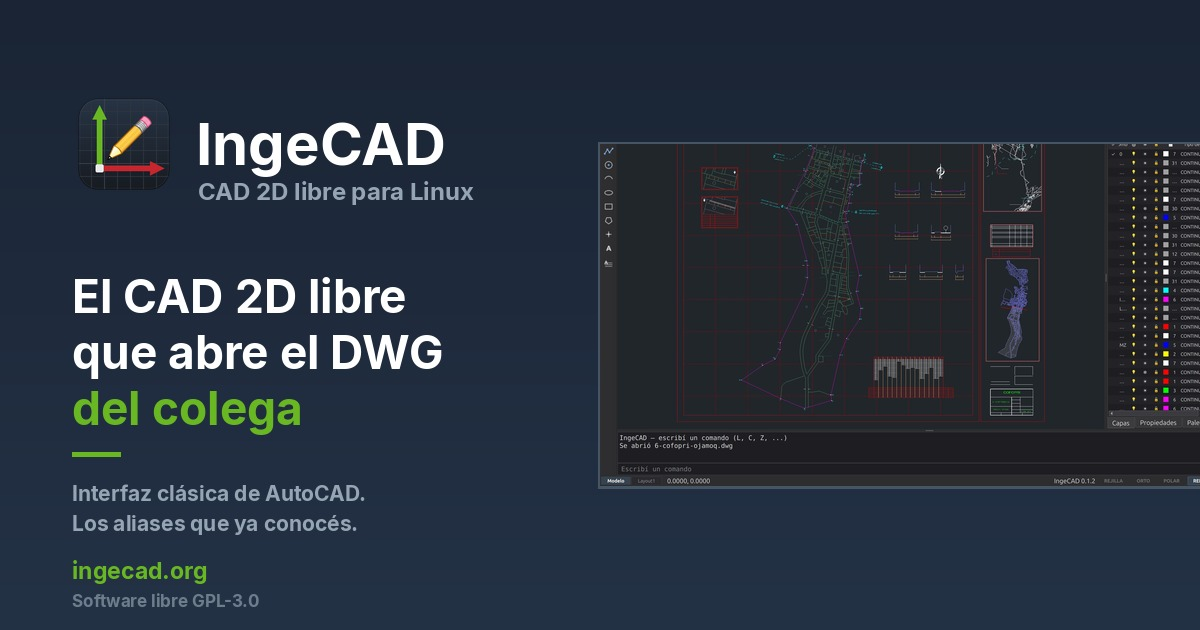
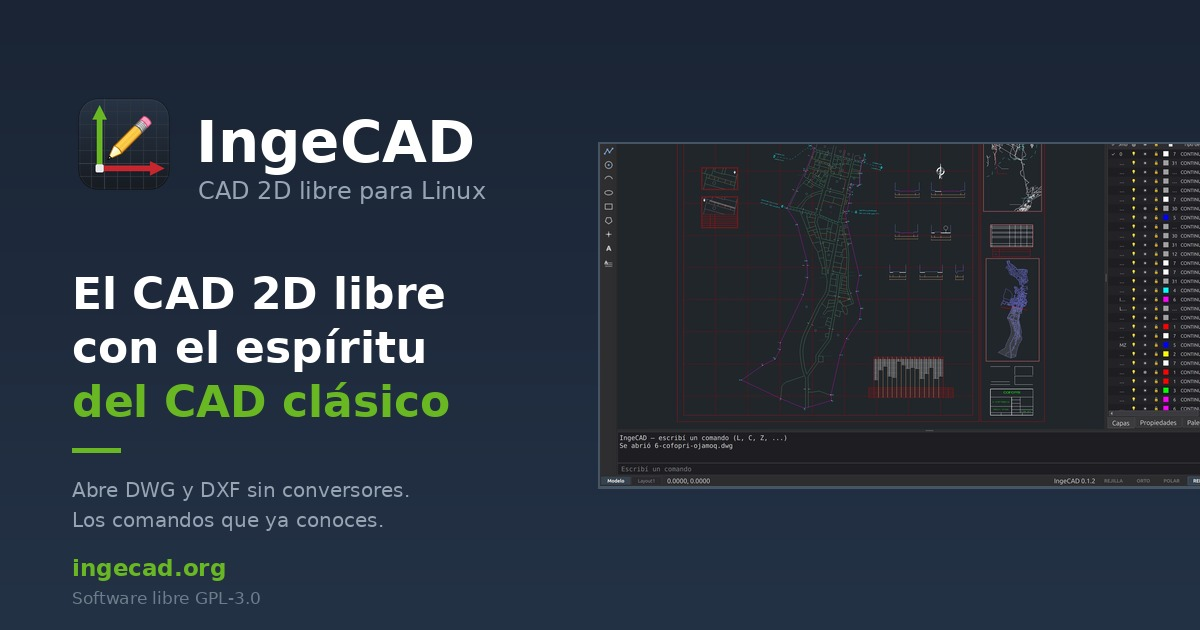
copy: español neutro y el titular desde el espíritu del CAD clásico
Correcciones de Marco, punto por punto:

- El titular pasa de «que abre el DWG del colega» a «con el espíritu del
  CAD clásico»: la propuesta de valor se cuenta desde el parecido con los
  programas que el usuario ya conoce, no desde la anécdota del archivo que
  le mandan. El valor del DWG baja al subtítulo, que ahora dice «Abre DWG y
  DXF sin conversores».
- «El plano llega por WhatsApp y lo abrís» → «Abre tus archivos sin
  conversores», con LibreDWG como el motivo y no como una nota al pie.
- «Le devolvés el plano sano» → «Tu plano lo abre cualquier CAD»: r2000 y
  los nombres concretos (AutoCAD, BricsCAD, ZWCAD). Los dos bullets de
  guardado se mudaron acá desde la sección de lectura, que ahora habla solo
  de abrir.
- «Deliberadamente chico» → «IngeCAD es un CAD con el espíritu de los
  programas que ya conoces». También en el FAQ y en el JSON-LD.
- **Todo el sitio a español neutro**, sin voseo: 37 formas en el HTML más
  las de las respuestas del JSON-LD. «Escribí L y dibujá» → «Escribe L y
  dibuja».

De paso, dos cosas que salieron al revisar:

- El FAQ visible tenía 10 preguntas y el JSON-LD 9: faltaba la de
  topografía. Ahora están espejados, que es la convención de la familia.
- El grep de voseo no cubría «imprimí o exportá»: lo cazó leer el texto
  visible extraído del HTML. Vale más leer el copy que confiar en el patrón.

Banner social regenerado con el titular nuevo. Las decisiones quedaron en
CLAUDE.md para no volver a discutirlas.

Changed region(s): [[0.0617, 0.4222, 0.37, 0.8444], [0.1542, 0.181, 0.4008, 0.3317], [0.0617, 0.8746, 0.2158, 0.9651]]

diff --git a/index.html b/index.html
@@ -5,17 +5,17 @@
   <meta name="viewport" content="width=device-width, initial-scale=1.0">
   <meta name="theme-color" content="#273445">
 
-  <title>IngeCAD · CAD 2D libre para Linux, con DWG de fábrica</title>
+  <title>IngeCAD · CAD 2D libre para Linux, con el espíritu del CAD clásico</title>
 
-  <meta name="description" content="CAD 2D libre estilo AutoCAD clásico: abre el DWG que te manda el colega, dibuja con la línea de comandos y los aliases que ya conocés, imprime a escala exacta. Nativo en Linux, sin ribbon. Código abierto GPL-3.0.">
+  <meta name="description" content="CAD 2D libre con el espíritu del CAD clásico: abre DWG y DXF sin conversores, dibuja con la línea de comandos y los aliases que ya conoces, imprime a escala exacta. Nativo en Linux, sin ribbon. Código abierto GPL-3.0.">
   <meta name="keywords" content="CAD 2D libre, alternativa a AutoCAD, AutoCAD Linux, abrir DWG en Linux, CAD software libre, DWG DXF Linux, LibreDWG, AutoCAD LT libre, CAD ingeniería civil, dibujo técnico Linux, código abierto, GPL">
   <meta name="author" content="Ing. Marco Sumari">
 
   <link rel="canonical" href="https://ingecad.org/">
 
   <meta property="og:site_name" content="IngeCAD">
-  <meta property="og:title" content="IngeCAD · CAD 2D libre para Linux, con DWG de fábrica">
-  <meta property="og:description" content="Abre el DWG del colega, dibuja con los aliases de AutoCAD, imprime a escala exacta. Libre y de código abierto (GPL-3.0). Nativo en Linux.">
+  <meta property="og:title" content="IngeCAD · CAD 2D libre para Linux, con el espíritu del CAD clásico">
+  <meta property="og:description" content="Abre DWG y DXF sin conversores, dibuja con los aliases de AutoCAD, imprime a escala exacta. Libre y de código abierto (GPL-3.0). Nativo en Linux.">
   <meta property="og:image" content="https://ingecad.org/images/og-banner.jpg">
   <meta property="og:image:width" content="1200">
   <meta property="og:image:height" content="630">
@@ -24,8 +24,8 @@
   <meta property="og:locale" content="es_PE">
 
   <meta name="twitter:card" content="summary_large_image">
-  <meta name="twitter:title" content="IngeCAD · CAD 2D libre para Linux, con DWG de fábrica">
-  <meta name="twitter:description" content="Abre el DWG del colega, dibuja con los aliases de AutoCAD, imprime a escala exacta. Libre y de código abierto.">
+  <meta name="twitter:title" content="IngeCAD · CAD 2D libre para Linux, con el espíritu del CAD clásico">
+  <meta name="twitter:description" content="Abre DWG y DXF sin conversores, dibuja con los aliases de AutoCAD, imprime a escala exacta. Libre y de código abierto.">
   <meta name="twitter:image" content="https://ingecad.org/images/og-banner.jpg">
 
   <link rel="icon" href="images/favicon-32.png" type="image/png" sizes="32x32">
@@ -83,7 +83,7 @@
         "name": "¿Abre el DWG que me manda un colega?",
         "acceptedAnswer": {
           "@type": "Answer",
-          "text": "Sí, con doble clic y sin pasos intermedios: IngeCAD trae GNU LibreDWG incluido y convierte el DWG por dentro, sin que vos veas el DXF. Lee hasta AutoCAD 2018 y guarda DWG r2000, que abre cualquier AutoCAD o BricsCAD desde el año 2000. Si además instalás el ODA File Converter (gratuito), también exporta r2018."
+          "text": "Sí, con doble clic y sin pasos intermedios: IngeCAD trae GNU LibreDWG incluido y convierte el DWG por dentro, sin ver nunca el DXF. Lee hasta AutoCAD 2018 y guarda DWG r2000, que abre cualquier AutoCAD o BricsCAD desde el año 2000. Si además instalas el ODA File Converter (gratuito), también exporta r2018."
         }
       },
       {
@@ -91,7 +91,7 @@
         "name": "¿En qué se diferencia de AutoCAD?",
         "acceptedAnswer": {
           "@type": "Answer",
-          "text": "IngeCAD es libre, corre nativo en Linux y es deliberadamente chico: hace lo que usás todos los días (líneas, polilíneas, círculos, bloques, capas, sombreados, cotas, recortar, equidistancia, imprimir a escala) y no pretende clonar AutoCAD función por función. La interfaz es la clásica anterior al ribbon, con la línea de comandos abajo y los mismos aliases: escribís L y dibujás una línea."
+          "text": "IngeCAD es libre, corre nativo en Linux y tiene el espíritu de los CAD que ya conoces: hace lo que usas todos los días (líneas, polilíneas, círculos, bloques, capas, sombreados, cotas, recortar, equidistancia, imprimir a escala) y no pretende clonar AutoCAD función por función. La interfaz es la clásica anterior al ribbon, con la línea de comandos abajo y los mismos aliases: escribes L y dibujas una línea."
         }
       },
       {
@@ -99,7 +99,7 @@
         "name": "¿Tengo que aprender comandos nuevos?",
         "acceptedAnswer": {
           "@type": "Answer",
-          "text": "No. IngeCAD usa los aliases de acad.pgp que ya tenés en los dedos: L, C, A, PL, REC, POL, E, M, CO, RO, O, TR, EX, MI, SC, B, I, H, LA, Z. Espacio y Enter ejecutan, Enter en vacío repite el último comando, Esc cancela. Podés escribir coordenadas absolutas (10,5), relativas (@10,5) o polares (@10<45)."
+          "text": "No. IngeCAD usa los aliases de acad.pgp que ya conoces: L, C, A, PL, REC, POL, E, M, CO, RO, O, TR, EX, MI, SC, B, I, H, LA, Z. Espacio y Enter ejecutan, Enter en vacío repite el último comando, Esc cancela. Puedes escribir coordenadas absolutas (10,5), relativas (@10,5) o polares (@10<45)."
         }
       },
       {
@@ -107,7 +107,7 @@
         "name": "¿Mis planos quedan intactos al guardar?",
         "acceptedAnswer": {
           "@type": "Answer",
-          "text": "Esa es la promesa central. El modelo de IngeCAD ES la base de datos del DXF, así que todo lo que el programa no entiende (objetos propietarios de Civil 3D, XDATA, diccionarios, sólidos 3D) se conserva intacto al reescribir el archivo. Le devolvés el plano sano al colega."
+          "text": "Esa es la promesa central. El modelo de IngeCAD ES la base de datos del DXF, así que todo lo que el programa no entiende (objetos propietarios de Civil 3D, XDATA, diccionarios, sólidos 3D) se conserva intacto al reescribir el archivo. Y como guarda DWG r2000, el plano vuelve en un formato que abre AutoCAD, BricsCAD o cualquier CAD desde el año 2000."
         }
       },
       {
@@ -123,7 +123,7 @@
         "name": "¿Cómo lo instalo?",
         "acceptedAnswer": {
           "@type": "Answer",
-          "text": "Descargá el AppImage de la sección Descargar, dale permiso de ejecución y andá: no instala nada en el sistema, y Python, Qt y los conversores de DWG viajan dentro. También podés correrlo desde el código fuente con tres comandos."
+          "text": "Descarga el AppImage de la sección Descargar, dale permiso de ejecución y listo: no instala nada en el sistema, y Python, Qt y los conversores de DWG viajan dentro. También puedes ejecutarlo desde el código fuente con tres comandos."
         }
       },
       {
@@ -136,10 +136,18 @@
       },
       {
         "@type": "Question",
+        "name": "¿Y la topografía: puntos, cuadro de coordenadas, perfiles?",
+        "acceptedAnswer": {
+          "@type": "Answer",
+          "text": "Viene en la v0.2: importar el CSV del topógrafo con cotas, el cuadro de datos técnicos automático (Este/Norte, lados, rumbos, área y perímetro) y el perfil de elevaciones de un eje. Hoy IngeCAD ya dibuja y edita el plano completo, pero esas tres cosas todavía no están — y preferimos decirlo antes de que las busques."
+        }
+      },
+      {
+        "@type": "Question",
         "name": "¿Cómo reporto un problema o contribuyo?",
         "acceptedAnswer": {
           "@type": "Answer",
-          "text": "El proyecto vive en GitHub: abrí un issue con tu plano de ejemplo, propone mejoras o mandá código. Si un DWG no abre bien, ese archivo es lo más valioso que podés aportar — varios arreglos de esta versión salieron justamente de planos reales que fallaban."
+          "text": "El proyecto vive en GitHub: abre un issue con tu plano de ejemplo, propón mejoras o envía código. Si un DWG no abre bien, ese archivo es lo más valioso que puedes aportar — varios arreglos de esta versión salieron justamente de planos reales que fallaban."
         }
       }
     ]
@@ -170,8 +178,8 @@
   <!-- ============ HERO ============ -->
   <section class="hero">
     <div class="container hero-center">
-      <h1>El CAD 2D libre<br>que abre el DWG del colega</h1>
-      <p class="hero-sub">La interfaz clásica de AutoCAD, los aliases que ya tenés en los dedos.<br>Nativo en Linux. Código abierto.</p>
+      <h1>El CAD 2D libre<br>con el espíritu del CAD clásico</h1>
+      <p class="hero-sub">Abre DWG y DXF sin conversores. Los mismos comandos y aliases que ya conoces.<br>Nativo en Linux. Código abierto.</p>
       <div class="hero-ctas">
         <a href="#descargar" class="btn btn-primary btn-lg">Descargar IngeCAD gratis</a>
         <span class="hero-version">Última versión: <span id="latest-version">v0.1.2</span></span>
@@ -191,13 +199,13 @@
     <section class="feat feat-terra reveal">
       <div class="container feat-row">
         <div class="feat-text">
-          <h2>El DWG entra con doble clic</h2>
-          <p>El plano llega por WhatsApp y lo abrís. Sin convertir a mano, sin pasos intermedios, sin ver nunca el DXF del medio.</p>
+          <h2>Abre tus archivos sin conversores</h2>
+          <p>DWG y DXF directo, con doble clic. <strong>GNU LibreDWG</strong> viaja dentro de IngeCAD: no instalas nada aparte y nunca ves un archivo intermedio.</p>
           <ul class="feat-list">
-            <li><strong>Lee DWG hasta AutoCAD 2018</strong> — con <a href="https://www.gnu.org/software/libredwg/" target="_blank" rel="noopener">GNU LibreDWG</a> incluido, nada que instalar aparte</li>
-            <li><strong>Guarda DWG r2000</strong> — lo abre cualquier AutoCAD o BricsCAD desde el año 2000</li>
-            <li><strong>DWG r2018</strong> si instalás el ODA File Converter, gratuito y con un clic</li>
+            <li><strong>Lee DWG hasta AutoCAD 2018</strong> — con <a href="https://www.gnu.org/software/libredwg/" target="_blank" rel="noopener">GNU LibreDWG</a> incluido</li>
             <li><strong>DXF nativo</strong> de ida y vuelta, en cualquier versión</li>
+            <li><strong>Bloques anidados, MTEXT con formato, sombreados, cotas</strong> se dibujan como los guardó el archivo</li>
+            <li><strong>Planos grandes</strong> — encuadre y zoom fluidos con decenas de miles de entidades</li>
           </ul>
           <p class="feat-muted">En la captura: un plano de cerco perimétrico real, con sus elevaciones, secciones y sombreados.</p>
         </div>
@@ -212,15 +220,16 @@
     <section class="feat feat-bim reveal">
       <div class="container feat-row feat-reverse">
         <div class="feat-text">
-          <h2>Le devolvés el plano sano</h2>
-          <p>El modelo de IngeCAD <strong>es</strong> la base de datos del DXF. Lo que el programa no entiende no lo toca: sigue ahí, intacto, cuando guardás.</p>
+          <h2>Tu plano lo abre cualquier CAD</h2>
+          <p>Guarda en <strong>DWG r2000</strong> y el archivo se abre en AutoCAD, BricsCAD, ZWCAD o el programa que use tu colega. Y lo que IngeCAD no entiende no lo toca: sigue intacto dentro del archivo.</p>
           <ul class="feat-list">
-            <li><strong>Objetos de Civil 3D, XDATA, diccionarios, sólidos 3D</strong> — se conservan tal cual</li>
-            <li><strong>Bloques anidados, MTEXT con formato, sombreados, cotas</strong> se dibujan como los guardó el archivo</li>
+            <li><strong>Guarda DWG r2000</strong> — el formato que lee cualquier CAD desde el año 2000</li>
+            <li><strong>DWG r2018</strong> si instalas el ODA File Converter, gratuito y con un clic</li>
+            <li><strong>Objetos de Civil 3D, XDATA, diccionarios, sólidos 3D</strong> — se conservan tal cual, aunque IngeCAD no los dibuje</li>
             <li><strong>Sistemas de coordenadas UTM</strong> en float64 — un Este de 500 000 no pierde precisión</li>
             <li><strong>Verificación al guardar</strong> — relee el DWG que acaba de escribir y avisa si algo se perdió</li>
           </ul>
-          <p class="feat-muted-light">Trabajar sobre el plano de otro no debería degradarlo. Esa es la promesa que ordena todo lo demás.</p>
+          <p class="feat-muted-light">Trabajar sobre el plano de otro no debería degradarlo, y devolverlo tampoco debería obligar a nadie a cambiar de programa.</p>
         </div>
         <figure class="feat-img">
           <img class="zoomable" src="images/screenshots/planos-grandes.jpeg"
@@ -233,7 +242,7 @@
     <section class="feat reveal">
       <div class="container feat-row">
         <div class="feat-text">
-          <h2>Escribí <code>L</code> y dibujá una línea</h2>
+          <h2>Escribe <code>L</code> y dibuja una línea</h2>
           <p>La memoria muscular de años no se tira. La línea de comandos está abajo, donde siempre, y responde a los mismos aliases de <code>acad.pgp</code>.</p>
           <ul class="feat-list">
             <li><strong>L, C, A, PL, REC, POL, E, M, CO, RO, O, TR, EX, MI, SC, B, I, H, LA, Z</strong></li>
@@ -254,13 +263,13 @@
     <section class="feat feat-alt reveal">
       <div class="container feat-row feat-reverse">
         <div class="feat-text">
-          <h2>Lo que usás todos los días</h2>
-          <p>Deliberadamente chico. No es un clon de AutoCAD función por función: es tu flujo real, completo.</p>
+          <h2>Lo que usas todos los días</h2>
+          <p>IngeCAD es un CAD con el espíritu de los programas que ya conoces —AutoCAD, BricsCAD—: los mismos comandos, la misma forma de trabajar y el flujo completo, del primer trazo al plano impreso.</p>
           <ul class="feat-list">
             <li><strong>Dibujo</strong> — líneas, círculos, arcos, polilíneas, rectángulos, polígonos, texto, sombreados, cotas</li>
             <li><strong>Edición</strong> — BORRAR, DESPLAZA, COPIA, GIRA, ESCALA, SIMETRÍA, EQUIDISTANCIA, RECORTA, ALARGA, EMPALME, DESCOMPONER, pinzamientos</li>
             <li><strong>Organización</strong> — administrador de capas, propiedades, estilos de texto y cota, bloques</li>
-            <li><strong>Salida</strong> — imprimí o exportá PDF y PNG <strong>a escala exacta</strong>, verificable con regla</li>
+            <li><strong>Salida</strong> — imprime o exporta PDF y PNG <strong>a escala exacta</strong>, verificable con regla</li>
           </ul>
           <p class="feat-muted">Deshacer y rehacer de todo, portapapeles, pestañas Modelo y presentaciones.</p>
         </div>
@@ -293,13 +302,13 @@
   <!-- ============ IMPACT ============ -->
   <section class="impact">
     <h2>Libre y de código abierto.<br>Para siempre.</h2>
-    <p>IngeCAD es software libre bajo GPL-3.0. Sin cuentas, sin nube, sin suscripciones, sin telemetría: tus planos viven en tu PC, en el formato abierto que ya usás. Hecho en el Perú para el ingeniero de toda Latinoamérica.</p>
+    <p>IngeCAD es software libre bajo GPL-3.0. Sin cuentas, sin nube, sin suscripciones, sin telemetría: tus planos viven en tu PC, en el formato abierto que ya usas. Hecho en el Perú para el ingeniero de toda Latinoamérica.</p>
   </section>
 
   <!-- ============ DESCARGAR ============ -->
   <section id="descargar" class="download-section">
     <div class="container">
-      <h2>Descargá IngeCAD</h2>
+      <h2>Descarga IngeCAD</h2>
       <p class="download-sub">Gratis y completo. Versión <span id="dl-version">0.1.2</span> — <span id="dl-date">agosto 2026</span>.</p>
       <div class="dl-row">
         <div class="dl-group">
@@ -356,19 +365,19 @@ venv/bin/python main.py</code>
         </details>
         <details class="faq-item">
           <summary>¿Abre el DWG que me manda un colega?</summary>
-          <p>Sí, con doble clic y sin pasos intermedios: IngeCAD trae <strong>GNU LibreDWG</strong> incluido y convierte el DWG por dentro, sin que vos veas el DXF. Lee hasta <strong>AutoCAD 2018</strong> y guarda <strong>DWG r2000</strong>, que abre cualquier AutoCAD o BricsCAD desde el año 2000. Si además instalás el ODA File Converter (gratuito), también exporta r2018.</p>
+          <p>Sí, con doble clic y sin pasos intermedios: IngeCAD trae <strong>GNU LibreDWG</strong> incluido y convierte el DWG por dentro, sin ver nunca el DXF. Lee hasta <strong>AutoCAD 2018</strong> y guarda <strong>DWG r2000</strong>, que abre cualquier AutoCAD o BricsCAD desde el año 2000. Si además instalas el ODA File Converter (gratuito), también exporta r2018.</p>
         </details>
         <details class="faq-item">
           <summary>¿En qué se diferencia de AutoCAD?</summary>
-          <p>IngeCAD es libre, corre <strong>nativo en Linux</strong> y es <strong>deliberadamente chico</strong>: hace lo que usás todos los días y no pretende clonar AutoCAD función por función. La interfaz es la clásica anterior al ribbon, con la línea de comandos abajo y los mismos aliases: escribís <code>L</code> y dibujás una línea.</p>
+          <p>IngeCAD es libre, corre <strong>nativo en Linux</strong> y tiene <strong>el espíritu de los CAD que ya conoces</strong> —AutoCAD, BricsCAD—: los mismos comandos, la misma forma de trabajar. La interfaz es la clásica anterior al ribbon, con la línea de comandos abajo y los mismos aliases: escribes <code>L</code> y dibujas una línea.</p>
         </details>
         <details class="faq-item">
           <summary>¿Tengo que aprender comandos nuevos?</summary>
-          <p>No. IngeCAD usa los aliases de <code>acad.pgp</code> que ya tenés en los dedos: <code>L</code>, <code>C</code>, <code>A</code>, <code>PL</code>, <code>REC</code>, <code>POL</code>, <code>E</code>, <code>M</code>, <code>CO</code>, <code>RO</code>, <code>O</code>, <code>TR</code>, <code>EX</code>, <code>MI</code>, <code>SC</code>, <code>B</code>, <code>I</code>, <code>H</code>, <code>LA</code>, <code>Z</code>. Espacio y Enter ejecutan, Enter en vacío repite el último comando, Esc cancela. Podés escribir coordenadas absolutas <code>10,5</code>, relativas <code>@10,5</code> o polares <code>@10&lt;45</code>.</p>
+          <p>No. IngeCAD usa los aliases de <code>acad.pgp</code> que ya conoces: <code>L</code>, <code>C</code>, <code>A</code>, <code>PL</code>, <code>REC</code>, <code>POL</code>, <code>E</code>, <code>M</code>, <code>CO</code>, <code>RO</code>, <code>O</code>, <code>TR</code>, <code>EX</code>, <code>MI</code>, <code>SC</code>, <code>B</code>, <code>I</code>, <code>H</code>, <code>LA</code>, <code>Z</code>. Espacio y Enter ejecutan, Enter en vacío repite el último comando, Esc cancela. Puedes escribir coordenadas absolutas <code>10,5</code>, relativas <code>@10,5</code> o polares <code>@10&lt;45</code>.</p>
         </details>
         <details class="faq-item">
           <summary>¿Mis planos quedan intactos al guardar?</summary>
-          <p>Esa es la promesa central. El modelo de IngeCAD <strong>es</strong> la base de datos del DXF, así que todo lo que el programa no entiende (objetos propietarios de Civil 3D, XDATA, diccionarios, sólidos 3D) <strong>se conserva intacto</strong> al reescribir el archivo. Le devolvés el plano sano al colega.</p>
+          <p>Esa es la promesa central. El modelo de IngeCAD <strong>es</strong> la base de datos del DXF, así que todo lo que el programa no entiende (objetos propietarios de Civil 3D, XDATA, diccionarios, sólidos 3D) <strong>se conserva intacto</strong> al reescribir el archivo. Y como guarda DWG r2000, el plano vuelve en un formato que abre AutoCAD, BricsCAD o cualquier CAD desde el año 2000.</p>
         </details>
         <details class="faq-item">
           <summary>¿Funciona sin internet?</summary>
@@ -376,7 +385,7 @@ venv/bin/python main.py</code>
         </details>
         <details class="faq-item">
           <summary>¿Cómo lo instalo?</summary>
-          <p>Descargá el <strong>AppImage</strong> de la sección Descargar, dale permiso de ejecución y andá: no instala nada en el sistema, y Python, Qt y los conversores de DWG viajan dentro. Si algo no funciona, corré <code>./IngeCAD-*.AppImage --check</code> y te dice qué le falta. También podés correrlo desde el código fuente con tres comandos.</p>
+          <p>Descarga el <strong>AppImage</strong> de la sección Descargar, dale permiso de ejecución y listo: no instala nada en el sistema, y Python, Qt y los conversores de DWG viajan dentro. Si algo no funciona, ejecuta <code>./IngeCAD-*.AppImage --check</code> y te dice qué le falta. También puedes ejecutarlo desde el código fuente con tres comandos.</p>
         </details>
         <details class="faq-item">
           <summary>¿Hay versión para Windows?</summary>
@@ -388,7 +397,7 @@ venv/bin/python main.py</code>
         </details>
         <details class="faq-item">
           <summary>¿Cómo reporto un problema o contribuyo?</summary>
-          <p>El proyecto vive en <a href="https://github.com/ingelibre/ingecad" target="_blank" rel="noopener">GitHub</a>: abrí un issue con tu plano de ejemplo, proponé mejoras o mandá código. <strong>Si un DWG no abre bien, ese archivo es lo más valioso que podés aportar</strong> — varios arreglos de esta versión salieron justamente de planos reales que fallaban, y trece de ellos ya son parches enviados a GNU LibreDWG.</p>
+          <p>El proyecto vive en <a href="https://github.com/ingelibre/ingecad" target="_blank" rel="noopener">GitHub</a>: abre un issue con tu plano de ejemplo, propón mejoras o envía código. <strong>Si un DWG no abre bien, ese archivo es lo más valioso que puedes aportar</strong> — varios arreglos de esta versión salieron justamente de planos reales que fallaban, y trece de ellos ya son parches enviados a GNU LibreDWG.</p>
         </details>
       </div>
     </div>

diff --git a/CLAUDE.md b/CLAUDE.md
@@ -36,8 +36,8 @@ Sistema de la familia Inge[X] con **acento por producto**:
   icono), **fidelidad del archivo** = degradado lime (la tesis del producto),
   **puente** = azul suave.
 - Resto idéntico a los hermanos: header slate-700, impact slate-900,
-  screenshots grandes alternando lado, español neutro (voseo, como el resto
-  de la familia), "Ing. Marco Sumari".
+  screenshots grandes alternando lado, **español neutro** (tuteo: «escribe», «abres», «tienes» — Marco pidió
+  explícitamente evitar el voseo el 2026-08-07), "Ing. Marco Sumari".
 
 ## Screenshots (`images/screenshots/`)
 
@@ -56,7 +56,7 @@ progresivo q88. El script de captura vive en el scratchpad de la sesión; si hac
 falta de nuevo, lo esencial es esas dos líneas.
 
 - `principal.jpeg` — hero: plano catastral **6-cofopri-ojamoq.dwg** (planta,
-  recuadros, cuadros de datos, administrador de capas). Reusada en «Lo que usás
+  recuadros, cuadros de datos, administrador de capas). Reusada en «Lo que usas
   todos los días».
 - `dwg-colega.jpeg` — **2-cerco-perimetrico.dwg**: elevaciones, secciones y
   sombreados de un cerco real.
@@ -76,6 +76,14 @@ headless; acá con PIL directamente porque el diseño es más simple.
 - Sin frameworks, sin trackers, sin cookies banner.
 - Descarga: **AppImage** (Linux x86_64) + código fuente. Windows se anuncia
   como «en camino» y **no** se promete: solo Linux está probado.
+- **Español neutro, sin voseo.** El copy usa tuteo: «escribe L y dibuja»,
+  «abres», «tienes», «puedes». Es una corrección explícita de Marco.
+- **El titular es «con el espíritu del CAD clásico»**, no «que abre el DWG del
+  colega»: la propuesta de valor se cuenta desde el parecido con los CAD que el
+  usuario ya conoce, no desde la anécdota del archivo que le mandan. En la misma
+  línea, la sección de DWG dice «abre tus archivos sin conversores» (LibreDWG
+  dentro) y la de fidelidad «tu plano lo abre cualquier CAD» (r2000 → AutoCAD,
+  BricsCAD, ZWCAD), no «le devuelves el plano sano».
 - **La topografía (puntos con cota, cuadro de coordenadas, perfiles) NO se
   promete**: es v0.2 y hay un FAQ que lo dice explícitamente. La regla es que
   el sitio solo afirme lo que la app hace hoy — el `README.md` del producto,
